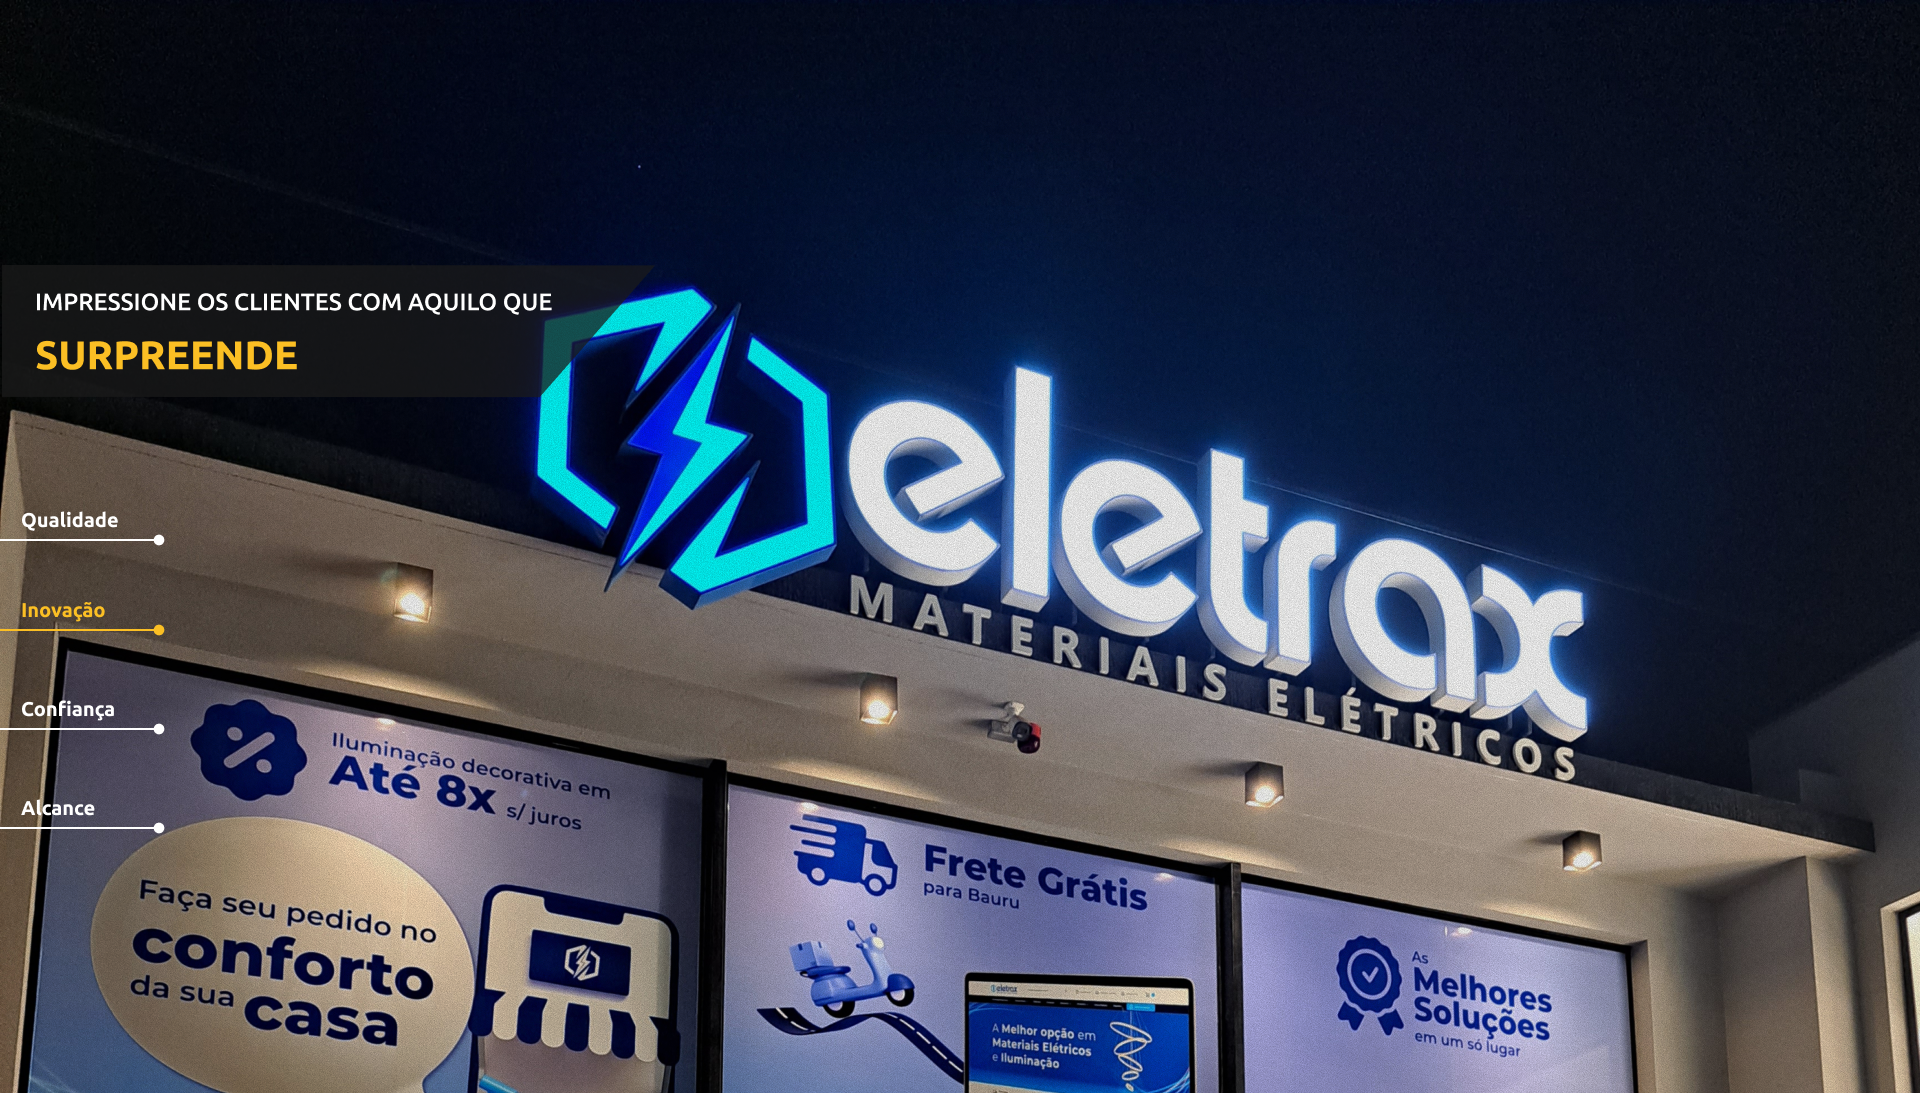
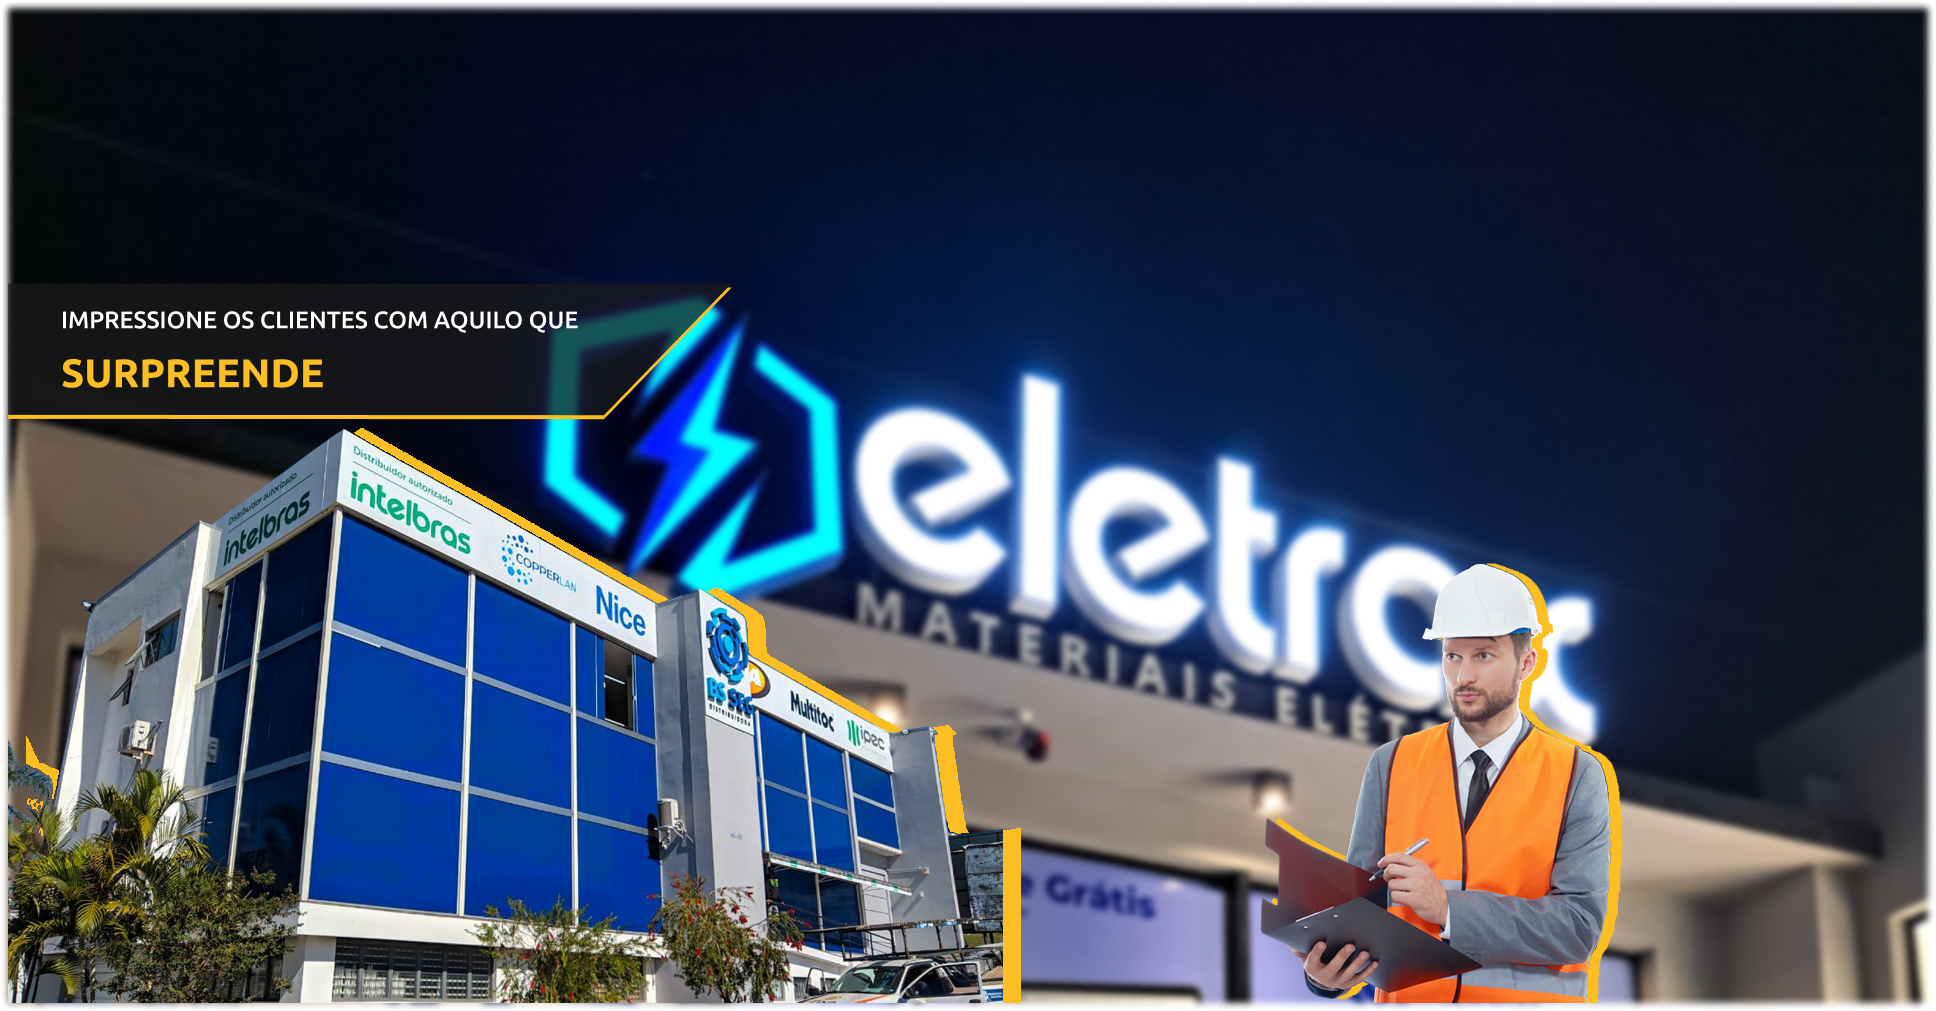
[feat] alterando imagens e outros updates

diff --git a/src/Components/sections/Servicos.tsx b/src/Components/sections/Servicos.tsx
@@ -1,19 +1,43 @@
 import Bean from "../bean";
-import FachadasCarousel from "../FachadaCarousel/FachadaCarousel";
 import { Button } from "../ui/button";
 import { Separator } from "../ui/separator";
-import { useState } from "react";
+import { useState, useEffect } from "react";
+import { ChevronLeft, ChevronRight } from "lucide-react";
 
-import comercio from "../../assets/fachadas/fachada6.png";
-import residencial from "../../assets/fachadas/residencial.jpg";
-import letraCaixa from "../../assets/fachadas/letra_caixa.jpg";
-import totem from "../../assets/fachadas/totem.jpg";
+// Importar imagens de cada categoria
+// Comerciais
+import comercial1 from "../../assets/comerciais/comercial1.jpg";
+import comercial2 from "../../assets/comerciais/comercial2.jpg";
+import comercial3 from "../../assets/comerciais/comercial3.jpg";
+import comercial4 from "../../assets/comerciais/comercial4.jpg";
+import comercial5 from "../../assets/comerciais/comercial5.jpg";
+import comercial6 from "../../assets/comerciais/comercial6.jpg";
+
+// Residenciais
+import residencial1 from "../../assets/residenciais/residencial1.jpg";
+import residencial2 from "../../assets/residenciais/residencial2.jpg";
+
+// Letra Caixa
+import letraCaixa1 from "../../assets/letracaixa/letracaixa1.jpg";
+import letraCaixa2 from "../../assets/letracaixa/letracaixa2.jpg";
+import letraCaixa3 from "../../assets/letracaixa/letracaixa3.jpg";
+import letraCaixa4 from "../../assets/letracaixa/letracaixa4.jpg";
+import letraCaixa5 from "../../assets/letracaixa/letracaixa5.jpg";
+import letraCaixa6 from "../../assets/letracaixa/letracaixa6.jpg";
+import letraCaixa7 from "../../assets/letracaixa/letracaixa7.jpg";
+
+// Totens
+import totem1 from "../../assets/totens/totem1.jpg";
+import totem2 from "../../assets/totens/totem2.jpg";
+import totem3 from "../../assets/totens/totem3.jpg";
+import totem4 from "../../assets/totens/totem4.jpg";
+import totem5 from "../../assets/totens/totem5.jpg";
+import totem6 from "../../assets/totens/totem6.jpg";
 
 const fachadaData = {
   comercial: {
     mainDescription:
       "ACM (Aluminum Composite Material) para fachadas comerciais personalizadas.",
-
     subItems: [
       {
         title: "ACM 3mm",
@@ -84,6 +108,29 @@ const fachadaData = {
   },
 };
 
+// Imagens para cada categoria
+const imagens = {
+  comercial: [
+    comercial1,
+    comercial2,
+    comercial3,
+    comercial4,
+    comercial5,
+    comercial6,
+  ],
+  residencial: [residencial1, residencial2],
+  letraCaixa: [
+    letraCaixa1,
+    letraCaixa2,
+    letraCaixa3,
+    letraCaixa4,
+    letraCaixa5,
+    letraCaixa6,
+    letraCaixa7,
+  ],
+  totens: [totem1, totem2, totem3, totem4, totem5, totem6],
+};
+
 // Dados para o caso padrão (fallback)
 const defaultFachadaDetails = {
   mainDescription: "Totens pequenos e/ou gigantes para melhor visibilidade.",
@@ -95,22 +142,84 @@ const defaultFachadaDetails = {
 
 type FachadaTipo = "comercial" | "residencial" | "letraCaixa" | "totens";
 
+// Componente do Slider
+function ImageSlider({
+  images,
+  categoria,
+}: {
+  images: string[];
+  categoria: string;
+}) {
+  const [currentIndex, setCurrentIndex] = useState(0);
+
+  // Reset slider to first position when category changes
+  useEffect(() => {
+    setCurrentIndex(0);
+  }, [categoria]);
+
+  const nextSlide = () => {
+    setCurrentIndex((prev) => (prev + 1) % images.length);
+  };
+
+  const prevSlide = () => {
+    setCurrentIndex((prev) => (prev - 1 + images.length) % images.length);
+  };
+
+  return (
+    <div className="relative h-48 w-full overflow-hidden rounded-2xl sm:h-64 md:h-80 lg:h-full">
+      <img
+        src={images[currentIndex]}
+        alt={`${categoria} - Imagem ${currentIndex + 1}`}
+        className="h-full w-full object-cover transition-all duration-500 ease-in-out"
+      />
+
+      {images.length > 1 && (
+        <>
+          {/* Botão Anterior */}
+          <button
+            onClick={prevSlide}
+            className="bg-opacity-50 hover:bg-opacity-70 absolute top-1/2 left-2 -translate-y-1/2 transform rounded-full bg-black p-2 text-white transition-all duration-200"
+          >
+            <ChevronLeft size={20} />
+          </button>
+
+          {/* Botão Próximo */}
+          <button
+            onClick={nextSlide}
+            className="bg-opacity-50 hover:bg-opacity-70 absolute top-1/2 right-2 -translate-y-1/2 transform rounded-full bg-black p-2 text-white transition-all duration-200"
+          >
+            <ChevronRight size={20} />
+          </button>
+
+          {/* Indicadores */}
+          <div className="absolute bottom-4 left-1/2 flex -translate-x-1/2 transform space-x-2">
+            {images.map((_, index) => (
+              <button
+                key={index}
+                onClick={() => setCurrentIndex(index)}
+                className={`h-2 w-2 rounded-full transition-all duration-200 ${
+                  index === currentIndex
+                    ? "bg-secondary-yellow"
+                    : "bg-opacity-50 hover:bg-opacity-70 bg-white"
+                }`}
+              />
+            ))}
+          </div>
+        </>
+      )}
+    </div>
+  );
+}
+
 export default function Servicos() {
   const [tipoFachada, setTipoFachada] = useState<FachadaTipo>("comercial");
 
-  const imagens: Record<FachadaTipo, string> = {
-    comercial: comercio,
-    residencial: residencial,
-    letraCaixa: letraCaixa,
-    totens: totem,
-  };
-
   const currentDisplayData = fachadaData[tipoFachada] || defaultFachadaDetails;
-  const currentImage = imagens[tipoFachada];
+  const currentImages = imagens[tipoFachada];
 
   return (
     <section
-      className="flex w-full flex-col items-center justify-center gap-16 sm:gap-24 md:gap-32"
+      className="flex w-full flex-col items-center justify-center gap-16 sm:gap-24 md:gap-16"
       id="portfolio"
     >
       {/* Header Section */}
@@ -130,10 +239,6 @@ export default function Servicos() {
               Contratar Serviços
             </Button>
           </div>
-          {/* Substituindo a imagem three pelo carrossel */}
-          <div className="flex h-full w-full items-center justify-center">
-            <FachadasCarousel />
-          </div>
         </div>
       </div>
 
@@ -141,9 +246,9 @@ export default function Servicos() {
       <div className="flex h-full w-full flex-col items-start justify-between gap-6 lg:flex-row lg:gap-10">
         {/* Sidebar - Navigation */}
         <div className="bg-light-white flex h-full w-full flex-col items-start justify-between gap-8 rounded-2xl px-6 py-6 sm:gap-11 sm:px-8 sm:py-8 lg:min-h-[900px] lg:w-auto lg:px-12">
-          <div className="flex w-full flex-col items-start gap-4 sm:gap-6 lg:gap-8">
+          <div className="flex w-full flex-col items-center gap-4 sm:gap-6 lg:items-start lg:gap-8">
             <h3 className="text-xl font-bold sm:text-2xl">Tipos de Fachadas</h3>
-            <div className="flex w-full flex-col gap-2 sm:flex-row sm:gap-4 lg:w-auto lg:flex-col lg:gap-5">
+            <div className="flex w-full flex-col gap-2 sm:flex-row sm:justify-center sm:gap-4 lg:w-auto lg:flex-col lg:items-start lg:justify-start lg:gap-5">
               <Button
                 variant={"link"}
                 onClick={() => setTipoFachada("comercial")}
@@ -197,15 +302,9 @@ export default function Servicos() {
 
         {/* Content Area */}
         <div className="flex h-full w-full flex-col items-start justify-start gap-3 sm:gap-4 md:gap-6 lg:w-3/6">
-          {/* Dynamic Image */}
-          {currentImage && (
-            <div className="h-48 w-full overflow-hidden rounded-2xl sm:h-64 md:h-80 lg:h-full">
-              <img
-                src={currentImage}
-                alt={`Imagem para ${tipoFachada}`}
-                className="h-full w-full object-cover transition-all duration-500 ease-in-out hover:scale-102"
-              />
-            </div>
+          {/* Dynamic Image Slider */}
+          {currentImages && currentImages.length > 0 && (
+            <ImageSlider images={currentImages} categoria={tipoFachada} />
           )}
 
           {/* Content */}

diff --git a/src/App.tsx b/src/App.tsx
@@ -1,4 +1,4 @@
-import { Check, ChevronRight, Mail, MapPin } from "lucide-react";
+import { Check, Mail, MapPin } from "lucide-react";
 import { useEffect, useState, useRef } from "react";
 import Header from "./Components/Header";
 import { Button } from "./Components/ui/button";
@@ -26,10 +26,10 @@ import Feedback from "./Components/Feedback/Feedback";
 import Facebook_icon from "./Components/facebook_icon";
 import Whatsapp_icon from "./Components/whatsapp_icon";
 import logo from "./assets/images/logo.svg";
-import slide1 from "./assets/images/slide1.png";
-import slide2 from "./assets/images/slide2.png";
-import slide3 from "./assets/images/slide3.png";
-import slide4 from "./assets/images/slide4.png";
+import slide1 from "./assets/images/slide6.png";
+import slide2 from "./assets/images/slide5.png";
+import slide3 from "./assets/images/slide1.png";
+import slide4 from "./assets/images/slide2.png";
 
 function App() {
   // Estado para controlar o slide atual
@@ -196,16 +196,16 @@ function App() {
     };
   }, []);
 
-  const handleScrollToSection = (sectionId: string) => {
-    const element = document.getElementById(sectionId);
-    if (element) {
-      element.scrollIntoView({ behavior: "smooth" });
-    }
-  };
+  // const handleScrollToSection = (sectionId: string) => {
+  //   const element = document.getElementById(sectionId);
+  //   if (element) {
+  //     element.scrollIntoView({ behavior: "smooth" });
+  //   }
+  // };
 
   return (
     <div className="flex min-h-screen w-full flex-col">
-      <header className="relative flex h-[600px] w-full flex-col overflow-hidden sm:h-[700px] md:h-[800px]">
+      <header className="relative flex h-[600px] w-full flex-col overflow-hidden sm:h-[700px] md:h-[750px]">
         {/* Container dos slides */}
         <div className="">
           {slides.map((slide, index) => (
@@ -239,7 +239,7 @@ function App() {
           ))}
         </div>
         <Header />
-        <div className="flex w-full flex-col justify-end px-4 py-16 text-white sm:px-8 sm:py-20 md:px-16 md:py-28 lg:flex-row lg:px-25">
+        {/* <div className="flex w-full flex-col justify-end px-4 py-16 text-white sm:px-8 sm:py-20 md:px-16 md:py-28 lg:flex-row lg:px-25">
           <div className="flex flex-col items-center gap-4 sm:gap-5 lg:items-end">
             <div className="rounded-xl bg-black/30 p-4 backdrop-blur-sm sm:p-6 md:p-8">
               <h1 className="max-w-full px-4 text-center text-3xl leading-tight font-bold tracking-wide sm:max-w-130 sm:px-0 sm:text-4xl sm:leading-12 md:text-5xl md:leading-16 lg:text-right lg:text-6xl lg:leading-18">
@@ -270,7 +270,7 @@ function App() {
               </Button>
             </div>
           </div>
-        </div>
+        </div> */}
       </header>
 
       <main
